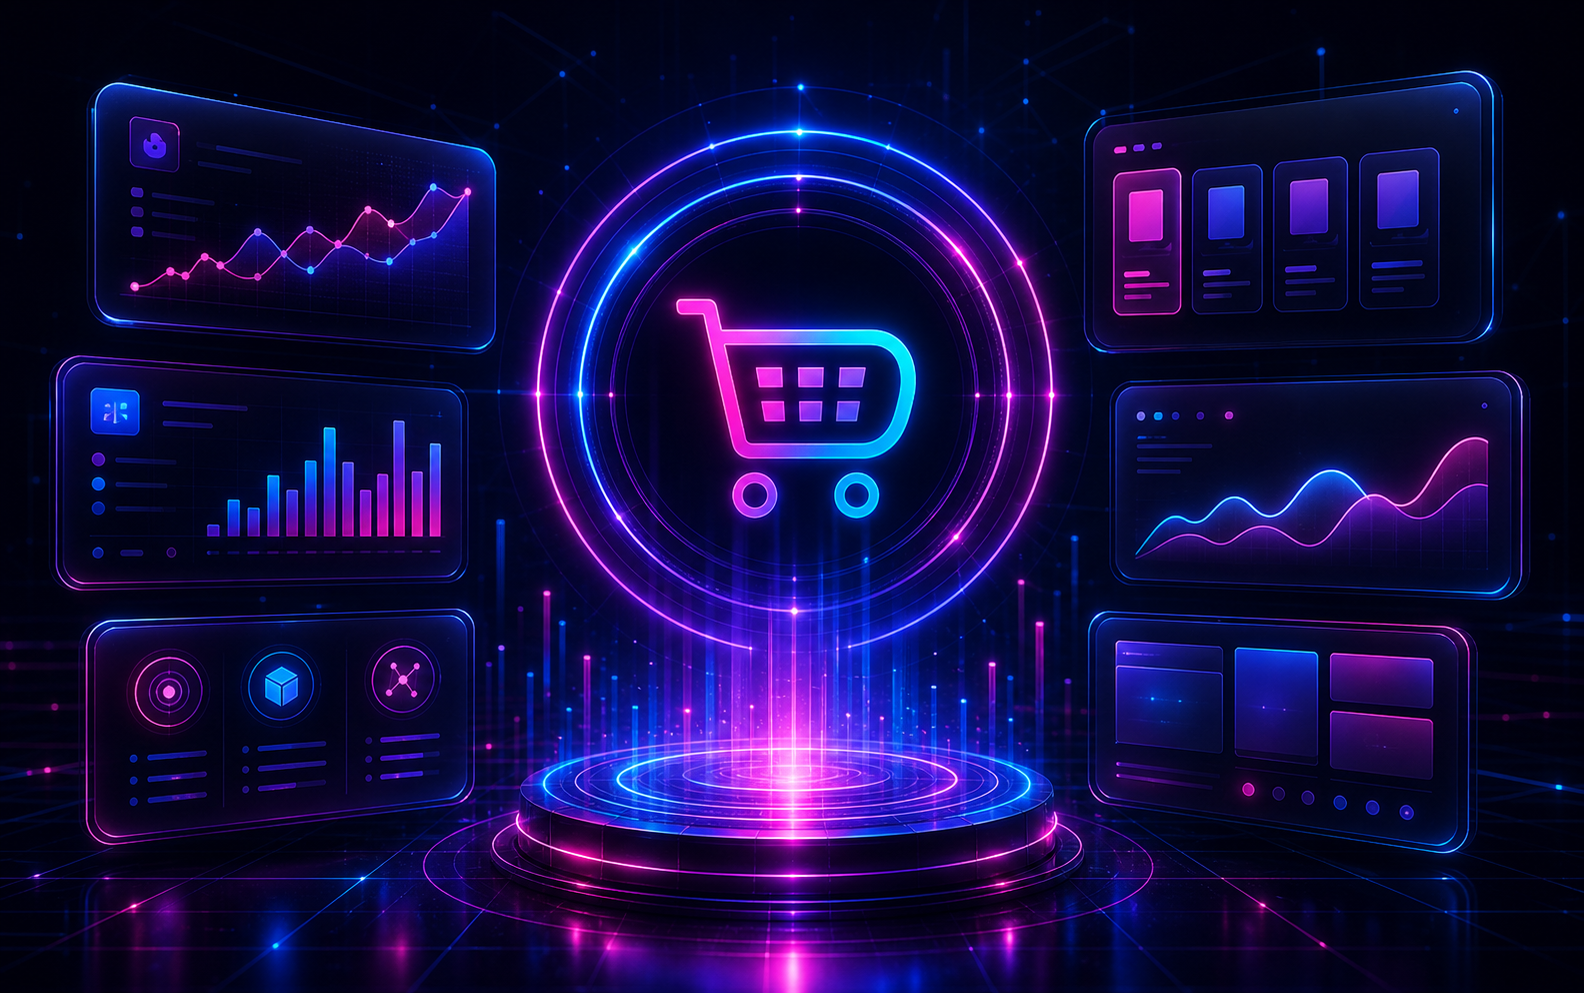
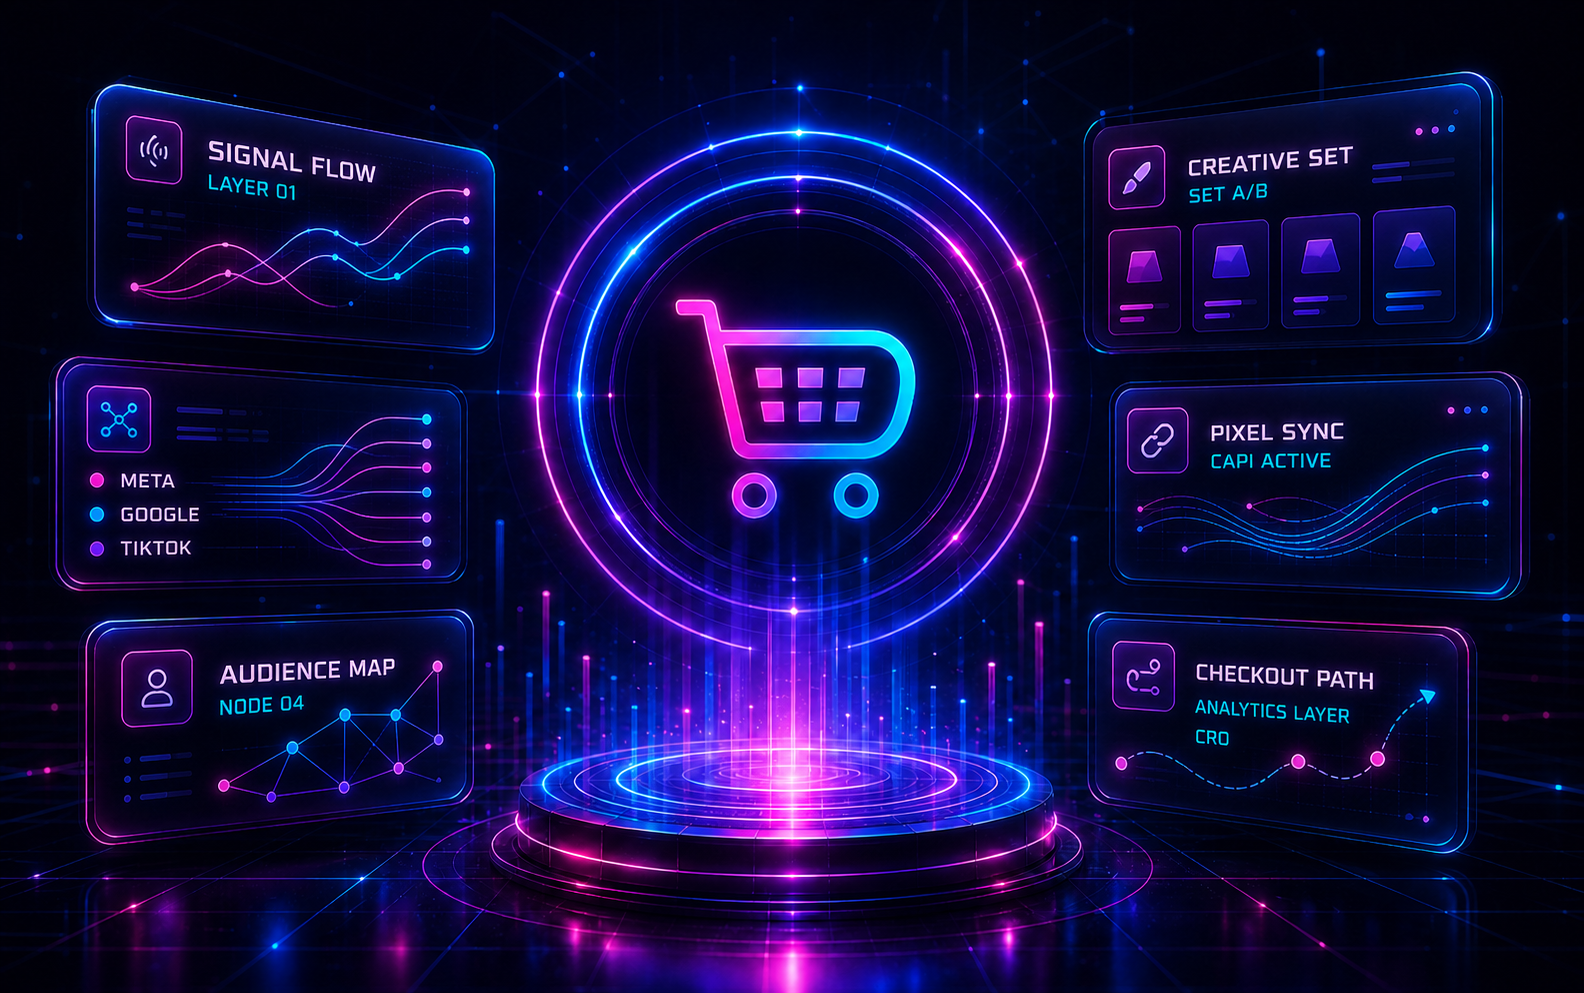
Refine hero image with synthetic interface data

diff --git a/docs/UNIT_4A_REWORK_HERO_IMAGE_SYNTHETIC_INTERFACE_DATA.md b/docs/UNIT_4A_REWORK_HERO_IMAGE_SYNTHETIC_INTERFACE_DATA.md
@@ -1,0 +1,199 @@
+# Unit 4A-Rework — Hero Image Synthetic Interface Data
+
+## 1. Status
+
+Unit 4A-Rework is a bounded hero-image, HTML, CSS, and documentation correction. It removes the rejected Unit 4A proof overlays and places safe synthetic interface labels inside the raster hero artwork instead.
+
+No JavaScript, dependency, deployment, merge, production, commit, or push action is included.
+
+## 2. Purpose
+
+The purpose of this unit is to retain the approved neon commerce-engine hero direction while making its dashboard panels feel more detailed and premium without presenting decorative interface content as business proof.
+
+Core law:
+
+- Synthetic interface labels are allowed.
+- Fake performance claims are not allowed.
+- Decorative UI is not proof.
+- Hero image refinement is not production cutover.
+
+## 3. Owner feedback
+
+The Project Owner rejected the Unit 4A proof chips placed over the hero because they obscured and weakened the approved composition. The owner still wanted data-like interface detail within the artwork.
+
+The rework therefore:
+
+- removes the HTML proof overlays
+- restores a clean hero-image presentation
+- adds synthetic system labels only inside the image's side panels
+- keeps verified marketplace proof in the separate proof bar below the hero
+
+## 4. Authority reviewed
+
+- `GENERIC_CODING_PROJECT_WORKFLOW_RULES.md`
+- `docs/UNIT_3D7_RASTER_HERO_VISUAL_INTEGRATION.md`
+- `docs/UNIT_4A_HERO_SECTION_DATA_OVERLAY_AND_REVIEW.md`
+- `index.html`
+- `assets/css/style.css`
+- `assets/js/main.js`
+- `assets/img/hero-commerce-intelligence.png`
+- current Git repository state
+
+## 5. Branch
+
+- Current branch: `refine/v3-section-review`
+- This unit does not merge or deploy the branch.
+
+## 6. Rework decision
+
+The Unit 4A `.hero-data-overlays` group and all `.hero-data-chip` elements are removed from `index.html`. Their positioning, surface, typography, accent, and responsive rules are removed from `assets/css/style.css`.
+
+The hero remains a single responsive raster image inside the existing `.hero-visual` wrapper. Verified proof remains outside the image in the existing proof bar.
+
+## 7. Raster image refinement
+
+The approved hero composition is retained:
+
+- central glowing DaDaStore cart mark
+- cyan, pink, and violet concentric neon rings
+- holographic platform and vertical light energy
+- six surrounding glass interface panels
+- dark cinematic cyber-commerce environment
+
+The raster was refined with the built-in image-generation workflow as a precise edit of the existing project asset. The edit prompt explicitly preserved the composition and limited readable content to approved synthetic interface labels.
+
+## 8. Synthetic interface labels
+
+The side panels use only decorative system language:
+
+- `SIGNAL FLOW`
+- `LAYER 01`
+- `META`
+- `GOOGLE`
+- `TIKTOK`
+- `AUDIENCE MAP`
+- `NODE 04`
+- `CREATIVE SET`
+- `SET A/B`
+- `PIXEL SYNC`
+- `CAPI ACTIVE`
+- `CHECKOUT PATH`
+- `ANALYTICS LAYER`
+- `CRO`
+
+These labels describe interface concepts and channels. They do not claim that a live product, campaign, integration, result, or client account exists.
+
+## 9. Forbidden claims excluded
+
+The image-generation instruction expressly prohibited:
+
+- dollar amounts or hourly rates
+- percentages
+- ROAS or CPA
+- orders or sales figures
+- revenue or ad-spend figures
+- growth percentages
+- client names or client logos
+- testimonials
+- watermarks or additional unapproved text
+
+No synthetic label is presented as verified marketplace proof or business performance.
+
+## 10. HTML and CSS cleanup
+
+`index.html` no longer contains the rejected overlay group or chip markup. The hero image source, alt text, headline, CTA links, proof bar, section IDs, and mailto targets remain intact.
+
+`assets/css/style.css` no longer contains the Unit 4A overlay grid, overlay-card treatments, accent modifiers, or desktop positioning rules. The established hero wrapper glow, responsive image sizing, contained overflow, and mobile stacking behavior remain intact.
+
+## 11. Proof bar preserved
+
+The separate proof bar below the hero remains unchanged and continues to contain:
+
+- `$100K+ Earned on Upwork`
+- `74 Jobs Completed`
+- `5,000+ Hours`
+- `100% Job Success`
+- `Top Rated Plus`
+
+This separation keeps approved public proof in editable HTML while the raster panels remain clearly decorative.
+
+## 12. JavaScript compatibility
+
+`assets/js/main.js` is unchanged. No JavaScript hook, navigation target, section ID, interaction, or runtime behavior is added, removed, or renamed.
+
+## 13. Files changed
+
+Changed:
+
+- `assets/img/hero-commerce-intelligence.png`
+- `index.html`
+- `assets/css/style.css`
+
+Added:
+
+- `docs/UNIT_4A_REWORK_HERO_IMAGE_SYNTHETIC_INTERFACE_DATA.md`
+
+Not changed:
+
+- `assets/js/main.js`
+- logo, favicon, or other project assets
+- dependency or build configuration
+- analytics, contact behavior, or deployment configuration
+
+## 14. Responsive considerations
+
+The raster remains fluid with automatic height and contained rendering. The rejected overlay layer no longer adds above-fold density or competing mobile content.
+
+Static source review covers the intended behavior at:
+
+- `375px`
+- `390px`
+- `768px`
+- `1024px`
+- `1440px`
+
+The image stacks below hero copy on mobile, preserves CTA visibility, avoids fixed-height clipping, and remains bounded by the existing hero wrapper. Final browser review remains the authority for visual legibility at each viewport.
+
+## 15. Verification record
+
+- Current branch is verified as `refine/v3-section-review`.
+- The rejected hero overlay markup and CSS classes are absent.
+- The updated PNG exists, decodes as a `1584 × 993` image, and was visually inspected in the repository.
+- The PNG contains the requested synthetic labels and no visible performance metric.
+- The proof bar retains all five approved marketplace values.
+- `assets/js/main.js` is verified unchanged by SHA-256 comparison.
+- All mailto links continue to target `mailto:[email redacted]`.
+- No external dependency was added.
+- `git diff --check` is used for whitespace validation.
+- Git status and changed-file scope are recorded after implementation.
+
+## 16. Known limitations
+
+- The interface panels are decorative artwork and do not represent live software or account data.
+- Rasterized labels are not editable HTML; future label changes require a bounded image-asset revision.
+- Static image and source inspection do not replace browser, physical-device, accessibility, or performance QA.
+- No Lighthouse, accessibility-compliance, production-readiness, or deployment claim is made.
+
+## 17. Recommended next section review
+
+**Unit 4B — Proof Bar and Platform Strip Review**
+
+Goal: review the verified proof bar and platform strip as the next bounded homepage surfaces without reopening the approved hero composition.
+
+## 18. Explicitly not next
+
+- further hero proof overlays
+- fake metrics or performance claims
+- live dashboard functionality
+- client logos, client names, or testimonials
+- broad redesign
+- JavaScript feature work
+- analytics or contact backend
+- dependencies, frameworks, or build tools
+- merge or deployment
+- DNS, CNAME, or production cutover
+- live DaDaStore repository modification
+
+## 19. Test record
+
+No automated application test suite is required for this bounded image, HTML, CSS, and documentation refinement. Static source checks, image inspection, protected-file hashing, proof-value checks, mailto checks, dependency checks, and Git checks are used. Browser visual QA remains a separate owner-review step.